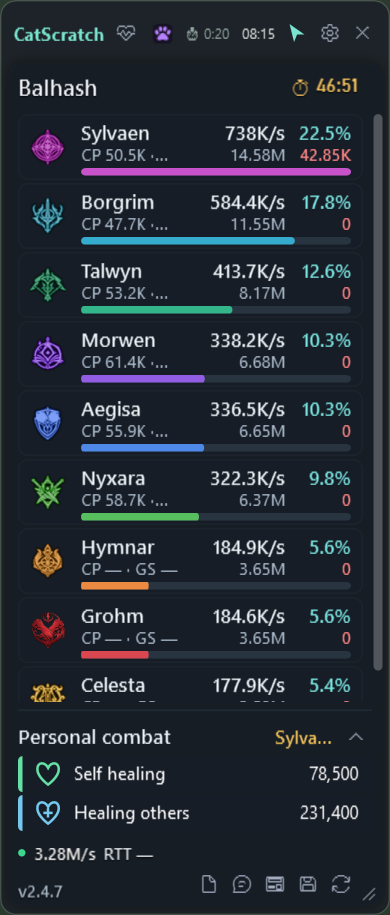
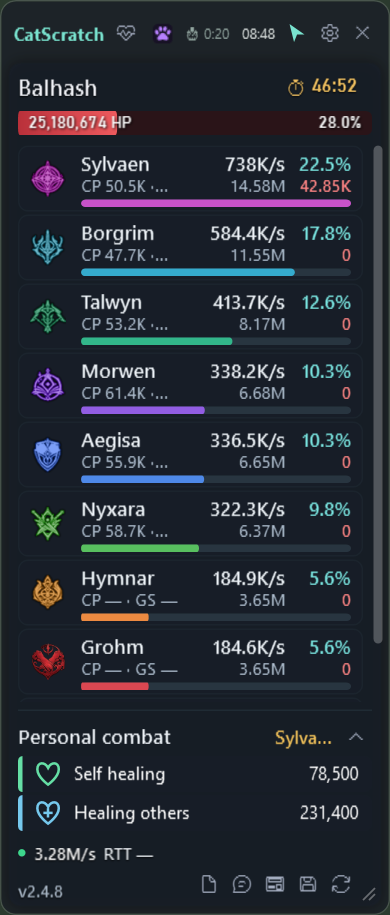
Show enabled boss HP bar in compact meter

diff --git a/src/AionMeter.App/Windows/OverlayWindow.xaml b/src/AionMeter.App/Windows/OverlayWindow.xaml
@@ -322,7 +322,7 @@
             </Grid>
 
             <!-- Boss HP: a slim bar -->
-            <Grid Grid.Row="2" Height="16" Margin="0,5,0,0" Visibility="{Binding HasBoss, Converter={StaticResource VisibleIf}}">
+            <Grid x:Name="BossHpPanel" Grid.Row="2" Height="16" Margin="0,5,0,0" Visibility="{Binding HasBoss, Converter={StaticResource VisibleIf}}">
                 <Border CornerRadius="4" Background="#2A1418" />
                 <Border CornerRadius="4" Background="{StaticResource HpFill}" RenderTransformOrigin="0,0.5">
                     <Border.RenderTransform>

diff --git a/src/AionMeter.App/Services/InteractionChecks.cs b/src/AionMeter.App/Services/InteractionChecks.cs
@@ -137,6 +137,24 @@ internal static class InteractionChecks
             Check(placement==(first.Left,first.Top,first.Width,first.Height),"All-window visibility preserves window placement and size");
             Check(HotkeyManager.TryParse(new AppSettings().HotkeyToggleAll,out _,out _),"Default all-window shortcut is a valid configurable key combination");
             var defaults=new AppSettings();
+            using (var bossMeter = new MeterService(new AppSettings { Transient=true, DownloadIcons=false, CompactMode=true, ShowBossPanel=true }, null))
+            {
+                bossMeter.Tracker.Process(new Core.Events.SelfIdentifiedEvent(1,1,"HP sample",2305,Core.Events.GameClass.Cleric));
+                bossMeter.Tracker.Process(new Core.Events.NpcSeenEvent(2,500,2701250,90000000));
+                bossMeter.Tracker.Process(new Core.Events.DamageEvent(3,1,500,17010000,1000000,Core.Events.HitFlags.None));
+                bossMeter.Tracker.Process(new Core.Events.NpcHpEvent(4,500,89000000,90000000));
+                var bossOverlay = new Windows.OverlayWindow(bossMeter) { Left=-30000, Top=-30000, WindowStartupLocation=WindowStartupLocation.Manual, ShowInTaskbar=false, ShowActivated=false }; windows.Add(bossOverlay); bossOverlay.Show();
+                var bossModel = (ViewModels.OverlayViewModel)bossOverlay.DataContext;
+                var hpPanel = (System.Windows.Controls.Grid)bossOverlay.FindName("BossHpPanel");
+                foreach (var compact in new[] { true, false })
+                foreach (var clickThrough in new[] { false, true })
+                {
+                    bossMeter.Settings.CompactMode=compact;bossMeter.Settings.ClickThrough=clickThrough;bossMeter.Settings.ShowBossPanel=true;bossOverlay.Refresh();hpPanel.GetBindingExpression(UIElement.VisibilityProperty)?.UpdateTarget();
+                    Check(bossModel.HasBoss && hpPanel.Visibility==Visibility.Visible && Math.Abs(bossModel.BossHpFraction-89d/90)<0.001,"Boss HP remains visible when enabled: compact="+compact+", click-through="+clickThrough);
+                    bossMeter.Settings.ShowBossPanel=false;bossOverlay.Refresh();hpPanel.GetBindingExpression(UIElement.VisibilityProperty)?.UpdateTarget();
+                    Check(!bossModel.HasBoss && hpPanel.Visibility==Visibility.Collapsed,"Disabling boss HP hides only the HP panel");
+                }
+            }
             var moduleKeys=new[]{defaults.HotkeyToggleOverlay,defaults.HotkeyPersonal,defaults.HotkeyEvents,defaults.HotkeyTimers,defaults.HotkeyPets,defaults.HotkeyToggleAll,defaults.HotkeyClickThrough,defaults.HotkeyReset};
             Check(moduleKeys.Distinct().Count()==8 && moduleKeys.All(k=>k.StartsWith("Shift+F") && HotkeyManager.TryParse(k,out _,out _)),"Every default shortcut uses Shift and a distinct function key away from WASD");
             var oldDefaults=new AppSettings {HotkeyToggleOverlay="Ctrl+Shift+D",HotkeyTimers="Ctrl+Shift+T",HotkeyPets="Alt+F9"};oldDefaults.MigrateHotkeys();

diff --git a/src/AionMeter.App/Windows/OverlayWindow.xaml.cs b/src/AionMeter.App/Windows/OverlayWindow.xaml.cs
@@ -290,7 +290,6 @@ public partial class OverlayWindow : Window, IDisplayAppearance
             foreach (var row in _vm.Rows) row.IsSelf = false;
         if (!_settings.ShowBossPanel) _vm.HasBoss = false;
         RefreshPersonal(_showingPartyPreview ? null : personalSnapshot);
-        if (_settings.CompactMode) _vm.HasBoss = false;
         // The instance's time limit (or the wait after entering), whatever fight is shown: it is about where you are now.
         var wall = ClockOverride?.Invoke() ?? DateTimeOffset.UtcNow.ToUnixTimeMilliseconds();
         _vm.SetLimit(_meter.Tracker.NextTimer(wall), wall);

diff --git a/README.md b/README.md
@@ -4,7 +4,7 @@ A separate always-on-top Windows damage meter for AION 2 by Zerafithekitten.
 
 [Download the latest release](https://github.com/Zerafithekitten/CatScratch/releases/latest) · [Patch notes](data/patchnotes-en.md) · [Report an issue](https://github.com/Zerafithekitten/CatScratch/issues)
 
-Latest published version: **2.4.7**. English is the default; German, Russian and French are available in Settings.
+Latest published version: **2.4.8**. English is the default; German, Russian and French are available in Settings.
 
 ## Preview
 
@@ -12,7 +12,9 @@ CatScratch UI rendered with sample data. Names and numbers are examples. The scr
 
 ### DPS meter and Personal combat
 
-<img src="docs/screenshots/meter.png" alt="CatScratch 2.4.7 DPS meter with party damage taken and personal healing" width="420" />
+The optional boss HP bar works in compact and normal views, including click-through, when received HP data is available. Toggle it in Settings > Appearance.
+
+<img src="docs/screenshots/meter.png" alt="CatScratch 2.4.8 DPS meter with party damage taken and personal healing" width="420" />
 
 ### Click-through mode
 
@@ -109,10 +111,10 @@ Select the language in **Settings > General > Language**. English remains the de
 
 | Language | Interface | Availability |
 | --- | --- | --- |
-| English | English | Current release (2.4.7) · default |
-| German | Deutsch | Current release (2.4.7) |
-| Russian | Русский | Current release (2.4.7) |
-| French | Français | Current release (2.4.7) |
+| English | English | Current release (2.4.8) · default |
+| German | Deutsch | Current release (2.4.8) |
+| Russian | Русский | Current release (2.4.8) |
+| French | Français | Current release (2.4.8) |
 
 Skill and monster names use the bundled language tables, with English as the fallback for missing names. Player names are preserved.
 

diff --git a/data/patchnotes-en.md b/data/patchnotes-en.md
@@ -1,3 +1,9 @@
+## CatScratch v2.4.8
+
+- Respect Show boss HP bar in compact mode. Remove the compact-layout override that hid the bar even when enabled.
+- Keep the existing slim HP bar visible in normal and click-through views when boss HP data is available. Turning the setting off still hides it; no missing HP values are invented.
+- Add regression checks for compact and normal views, click-through and the disabled setting. Refresh the meter previews on GitHub.
+
 ## CatScratch v2.4.7
 
 - Handle custom-audio validation failures inside the event sound window instead of allowing InvalidDataException to escape the asynchronous selection callback.
